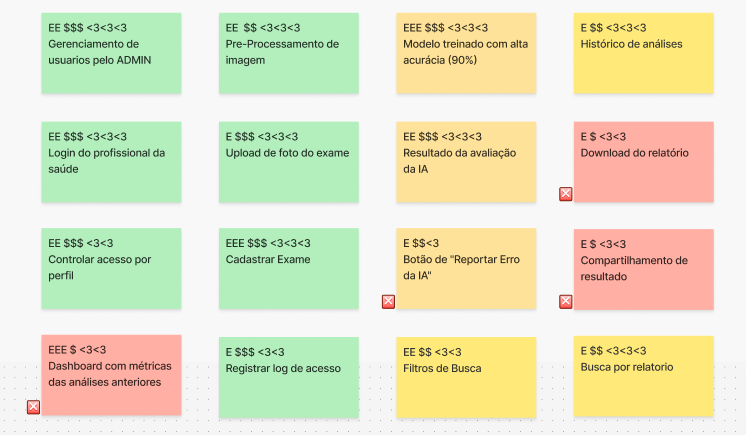
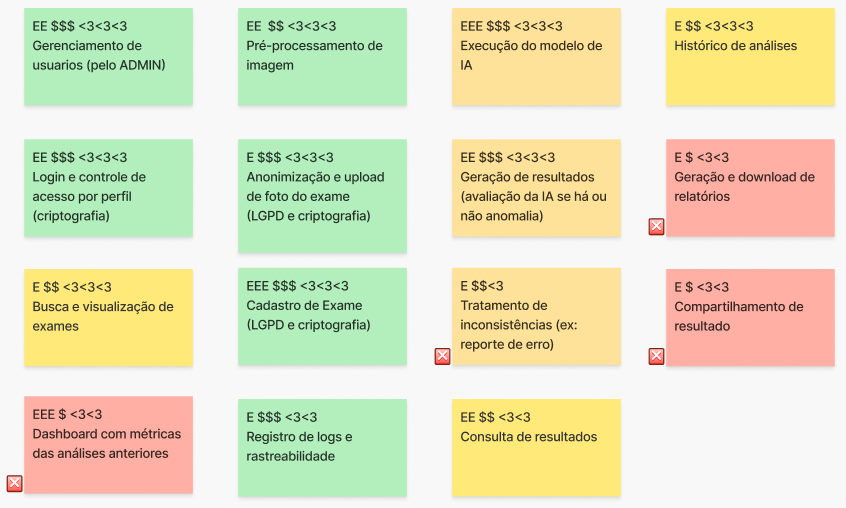
correção do sequenciador da lean inception e do Canvas MVP

diff --git a/docs/produto/lean-inception.md b/docs/produto/lean-inception.md
@@ -250,21 +250,20 @@ A revisão utilizou marcações visuais para priorização, esforço e confianç
 
 Funcionalidades destacadas na revisão:
 
-- gerenciamento de usuários pelo ADMIN;
-- login do profissional da saúde;
-- controlar acesso por perfil;
-- registrar log de acesso;
-- cadastrar exame;
-- upload de foto do exame;
+- gerenciamento de usuários (pelo ADMIN);
+- login e controle de acesso por perfil (criptografia);
+- registro de logse rastreabilidade;
+- cadastro de exame (LGPD e criptografia);
+- anonimização e upload de foto do exame (LGPD e criptografia);
 - pré-processamento de imagem;
-- modelo treinado com alta acurácia;
-- resultado da avaliação da IA;
-- botão "Reportar Erro da IA";
+- execução do modelo de IA;
+- geração de resultados (avaliação da IA se há ou não anomalia);
+- tratamento de inconsistências (ex: reporte de erro);
 - histórico de análises;
-- busca por relatório;
-- filtros de busca;
+- busca e visualização de exames;
+- consulta de resultados;
 - dashboard com métricas das análises anteriores;
-- download do relatório;
+- geração e download do relatório;
 - compartilhamento de resultado.
 
 A priorização resultante da revisão técnica, de negócio e de UX é apresentada na Figura 8.
@@ -281,37 +280,36 @@ Com base no sequenciador, os incrementos foram organizados em 5 ondas:
 
 ### Onda 1 - Acesso e segurança básica
 
-- gerenciamento de usuários pelo ADMIN;
-- login do profissional da saúde;
-- controle de acesso por perfil.
+- gerenciamento de usuários (pelo ADMIN);
+- login e controle de acesso por perfil (criptografia).
 
 ### Onda 2 - Cadastro e processamento inicial
 
-- registrar log de acesso;
-- cadastrar exame;
+- registro de logs e rastreabilidade;
+- cadastro de exame (LGPD e criptografia);
 - pré-processamento de imagem;
-- upload de foto do exame.
+- anonimização e upload de foto do exame (LGPD e criptografia).
 
 ### Onda 3 - Núcleo de IA
 
-- modelo treinado com alta acurácia (90%);
-- resultado da avaliação da IA;
-- botão de "Reportar Erro da IA".
+- execução do modelo de IA;
+- geração de resultados  (avaliação da IA se há ou não anomalia);
+- tratamento de inconsistências (ex: reporte de erro).
 
 ### Onda 4 - Histórico e busca (MVP)
 
 - histórico de análises;
-- busca de relatório;
-- filtros de busca.
+- Busca e visualização de exames;
+- Consulta de resultados.
 
 **MVP definido até este ponto.**
 
-**Issues relacionadas ao MVP:** [#3](https://github.com/fga-eps-mds/2026-1-RetinaScan-Doc/issues/3), [#13](https://github.com/fga-eps-mds/2026-1-RetinaScan-Doc/issues/13), [#14](https://github.com/fga-eps-mds/2026-1-RetinaScan-Doc/issues/14), [#15](https://github.com/fga-eps-mds/2026-1-RetinaScan-Doc/issues/15), [#20](https://github.com/fga-eps-mds/2026-1-RetinaScan-Doc/issues/20), [#21](https://github.com/fga-eps-mds/2026-1-RetinaScan-Doc/issues/21), [#16](https://github.com/fga-eps-mds/2026-1-RetinaScan-Doc/issues/16), [#17](https://github.com/fga-eps-mds/2026-1-RetinaScan-Doc/issues/17), [#18](https://github.com/fga-eps-mds/2026-1-RetinaScan-Doc/issues/18)
+**Principais issues relacionadas ao MVP:** [#3](https://github.com/fga-eps-mds/2026-1-RetinaScan-Doc/issues/3), [#13](https://github.com/fga-eps-mds/2026-1-RetinaScan-Doc/issues/13), [#14](https://github.com/fga-eps-mds/2026-1-RetinaScan-Doc/issues/14), [#15](https://github.com/fga-eps-mds/2026-1-RetinaScan-Doc/issues/15), [#20](https://github.com/fga-eps-mds/2026-1-RetinaScan-Doc/issues/20), [#21](https://github.com/fga-eps-mds/2026-1-RetinaScan-Doc/issues/21), [#16](https://github.com/fga-eps-mds/2026-1-RetinaScan-Doc/issues/16), [#17](https://github.com/fga-eps-mds/2026-1-RetinaScan-Doc/issues/17), [#18](https://github.com/fga-eps-mds/2026-1-RetinaScan-Doc/issues/18)
 
 ### Onda 5 - Evoluções pós-MVP
 
 - dashboard com métricas das análises anteriores;
-- download de relatório;
+- geração e download de relatórios;
 - compartilhamento de resultado.
 
 Conforme a Figura 9, o sequenciador define os incrementos e delimita o ponto de corte do MVP.

diff --git a/docs/metodologia/metodologia-aplicada.md b/docs/metodologia/metodologia-aplicada.md
@@ -18,7 +18,7 @@ A combinação escolhida visa equilibrar organização, flexibilidade e qualidad
 - Equipe dividida em grupos de 3-4 pessoas trabalhando em paralelo
 - Cada grupo executa uma atividade do framework (Visão, Personas, Jornadas, Brainstorming, Revisões)
 - Validações cruzadas ao final de cada etapa garantem consenso
-- Resultado: Canvas MVP validado, backlog priorizado, roadmap de releases (R1, R2, R3)
+- Resultado: Canvas MVP validado, backlog priorizado, roadmap de releases (R1, R2_MVP, R3)
 - **Entrega:** Lean Inception completo, Backlog de Produto no ZenHub, Roadmap documentado
 
 **Impacto:** Define escopo, prioridades e critérios de sucesso. Sem Lean Inception clara, sprints carecem de direção.
@@ -101,7 +101,7 @@ A combinação escolhida visa equilibrar organização, flexibilidade e qualidad
 | 1ª | 30/03-13/04 | RM1 (13/04) | [Gustavo Costa](https://github.com/cwtshh) e [Iderlan Junio](https://github.com/IderlanJ) |
 | 2ª | 13/04-27/04 | **R1 (27/04)** | [Natália Rodrigues](https://github.com/Natyrodrigues) e [André Maia](https://github.com/andre-maia51)|
 | 3ª | 27/04-11/05 | RM2 (04/05), RM3 (11/05) | [Zenilda Vieira](https://github.com/ZenildaVieira) e [Cecília Quaresma](https://github.com/cqcoding) |
-| 4ª | 11/05-25/05 |**R2 (25/05)** | [Elias Oliveira](https://github.com/EliasOliver21) e [Yan Luca](https://github.com/yan-luca) |
+| 4ª | 11/05-25/05 |**R2_MVP (25/05)** | [Elias Oliveira](https://github.com/EliasOliver21) e [Yan Luca](https://github.com/yan-luca) |
 | 5ª | 25/05-08/06 | RM4 (01/06) | [Eric Camargo](https://github.com/Ericcs10) e [Harleny Angélica](https://github.com/Angelicahaas) |
 | 6ª | 08/06-22/06 | RM5 (15/06) | [Arthur Ribeiro](https://github.com/artrsousa1) e [Vinícius Roriz](https://github.com/vnsrz) |
 | 7ª | 22/06-06/07 | **R3 (29/06)**, RM6 (06/07) | A definir |

diff --git a/docs/produto/mvp-canvas.md b/docs/produto/mvp-canvas.md
@@ -27,14 +27,13 @@ Implementar um fluxo web mínimo que permita captura/upload de retinografias, pr
 2. Gestão de contas e permissões;
 3. Edição de dados sensíveis dos usuários.
 
-## Funcionalidades (MVP)
+## Funcionalidades
 
-- Autenticação e controle de perfis (ADMIN, MÉDICO) — issues: [#3](https://github.com/fga-eps-mds/2026-1-RetinaScan-Doc/issues/3), [#1](https://github.com/fga-eps-mds/2026-1-RetinaScan-Doc/issues/1)
-- Cadastro de exame (#13) e upload de imagem (#14)
-- Validação e pré-processamento de imagem (#15)
-- Integração com modelo de IA e inferência (#20, #21)
-- Botão "Reportar Erro da IA" para feedback humano (#19)
-- Histórico pesquisável, busca e filtros (#16, #17, #18)
+- Gestão de acesso e segurança por perfis (criptografia)
+- Aquisição, cadastro e processamento de exames anonimizados (LGPD e criptografia)
+- Análise por Inteligência Artificial, integração com modelo de IA e inferência 
+- Visualização e Gestão de Resultados (MVP) 
+- Funcionalidades Avançadas (dashboard, relatórios e compartilhamento de resultados)
 
 ## Resultado Esperado
 
@@ -59,7 +58,7 @@ Implementar um fluxo web mínimo que permita captura/upload de retinografias, pr
 - Recursos mínimos sugeridos: 3–5 desenvolvedores (backend/frontend), 1 engenheiro de ML, 1 PO/QA.
 - Cronograma resumido (marcos principais):
   - R1 — Cadastro e Upload de Exames: 27/04/2026
-  - R2 — MVP (Busca, filtros, histórico): 25/05/2026
+  - R2_MVP — MVP (Busca, relatórios, histórico): 25/05/2026
   - R3 — Entrega do MVP (épico de IA concluído): 29/06/2026
   - Encerramento — RM6: 06/07/2026
 

diff --git a/docs/produto/backlog-do-produto.md b/docs/produto/backlog-do-produto.md
@@ -31,7 +31,7 @@ Detalhes operacionais (prioridade, critérios de aceitação, status, responsáv
 ## Relação com Releases
 
 - R1: foco em autenticação, cadastro/upload e processamento inicial de IA.
-- R2: consolidação de histórico, busca e filtros.
+- R2_MVP: consolidação de histórico, busca e filtros.
 - R3: evoluções de relatórios, métricas e compartilhamento.
 
 A distribuição detalhada de issues por release deve ser consultada diretamente no ZenHub.
